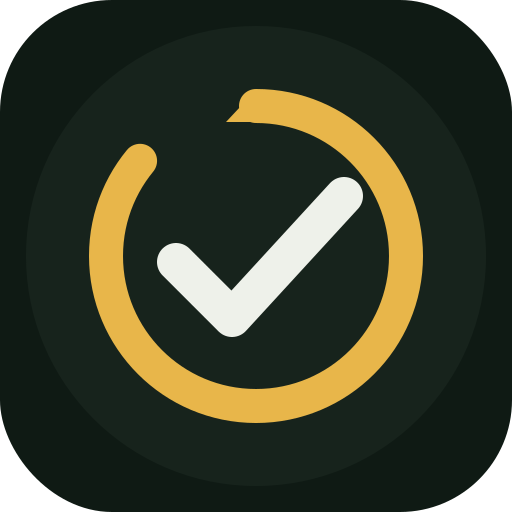
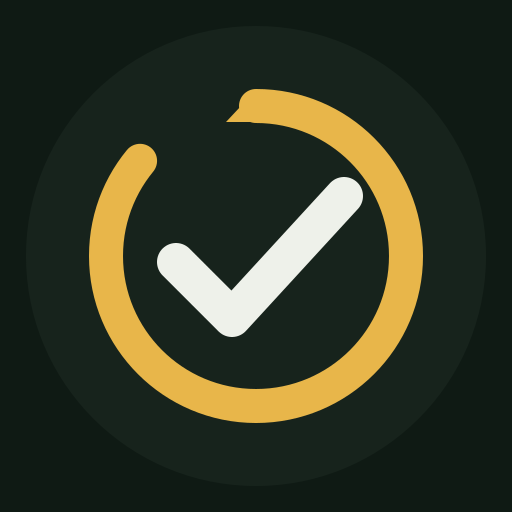
Add files via upload

diff --git a/index.html b/index.html
@@ -10,8 +10,8 @@
 <meta name="apple-mobile-web-app-capable" content="yes">
 <meta name="apple-mobile-web-app-status-bar-style" content="black-translucent">
 <meta name="apple-mobile-web-app-title" content="Daily Habit Tracker">
-<link rel="apple-touch-icon" sizes="192x192" href="icons/icon-192.png?v=2">
-<link rel="icon" href="icons/icon-192.png?v=2">
+<link rel="apple-touch-icon" sizes="192x192" href="icons/icon-192.png?v=3">
+<link rel="icon" href="icons/icon-192.png?v=3">
 
 <link rel="preconnect" href="https://fonts.googleapis.com">
 <link rel="preconnect" href="https://fonts.gstatic.com" crossorigin>

diff --git a/service-worker.js b/service-worker.js
@@ -1,4 +1,4 @@
-const CACHE_NAME = 'daily-habit-tracker-cache-v8';
+const CACHE_NAME = 'daily-habit-tracker-cache-v7';
 const ASSETS = [
   './',
   './index.html',